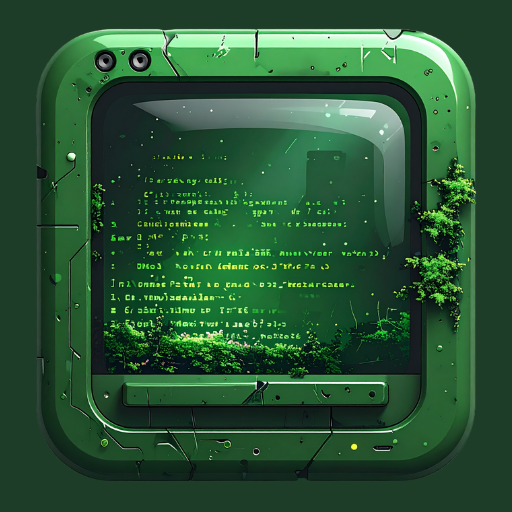
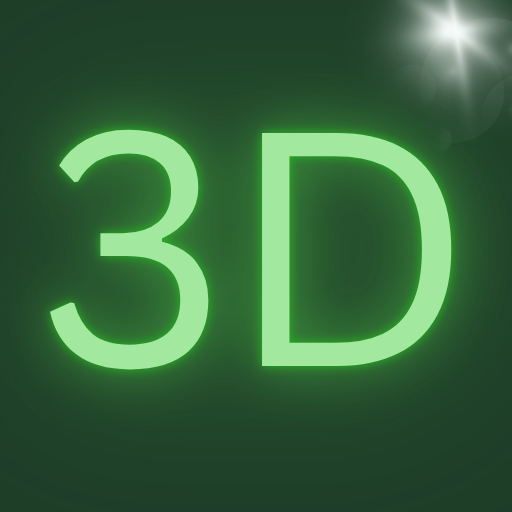
Add files via upload

diff --git a/index.html b/index.html
@@ -2,7 +2,7 @@
     <meta charset="UTF-8">
     <meta name="viewport" content="width=device-width, initial-scale=1.0, maximum-scale=1.0, user-scalable=no, viewport-fit=cover">
     <link rel="manifest" href="manifest.json">
-    <title>Matrix 3D Screensaver</title>
+    <title>3D Waterfall</title>
     <style>
     body { 
         margin: 0; 